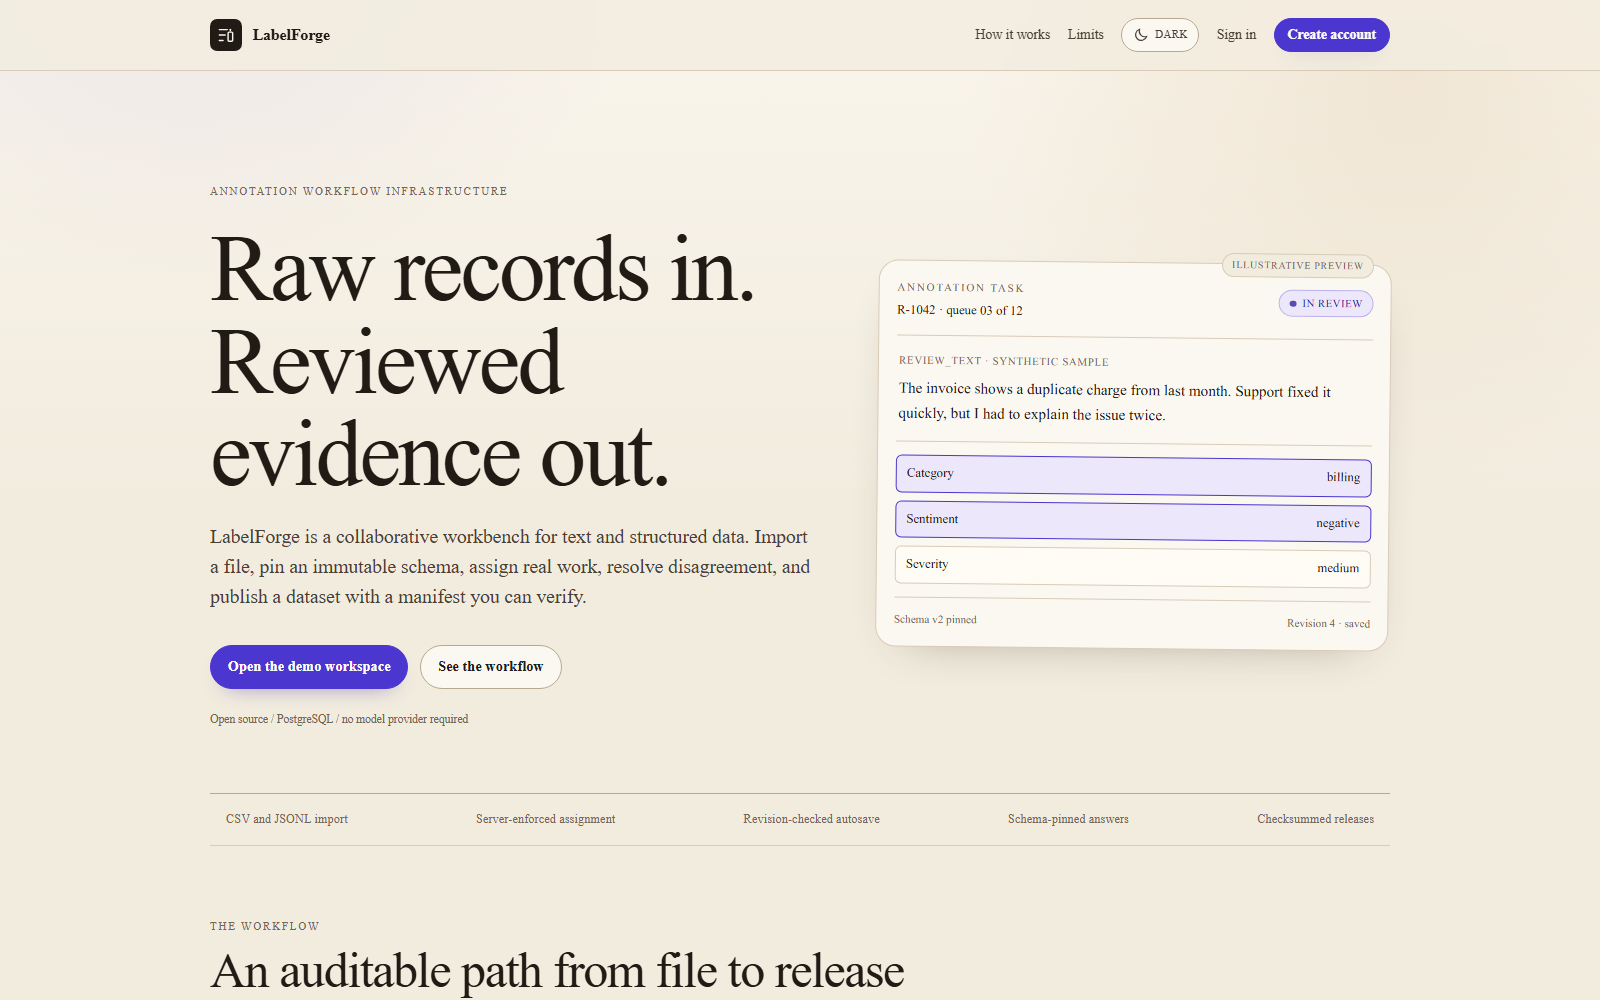
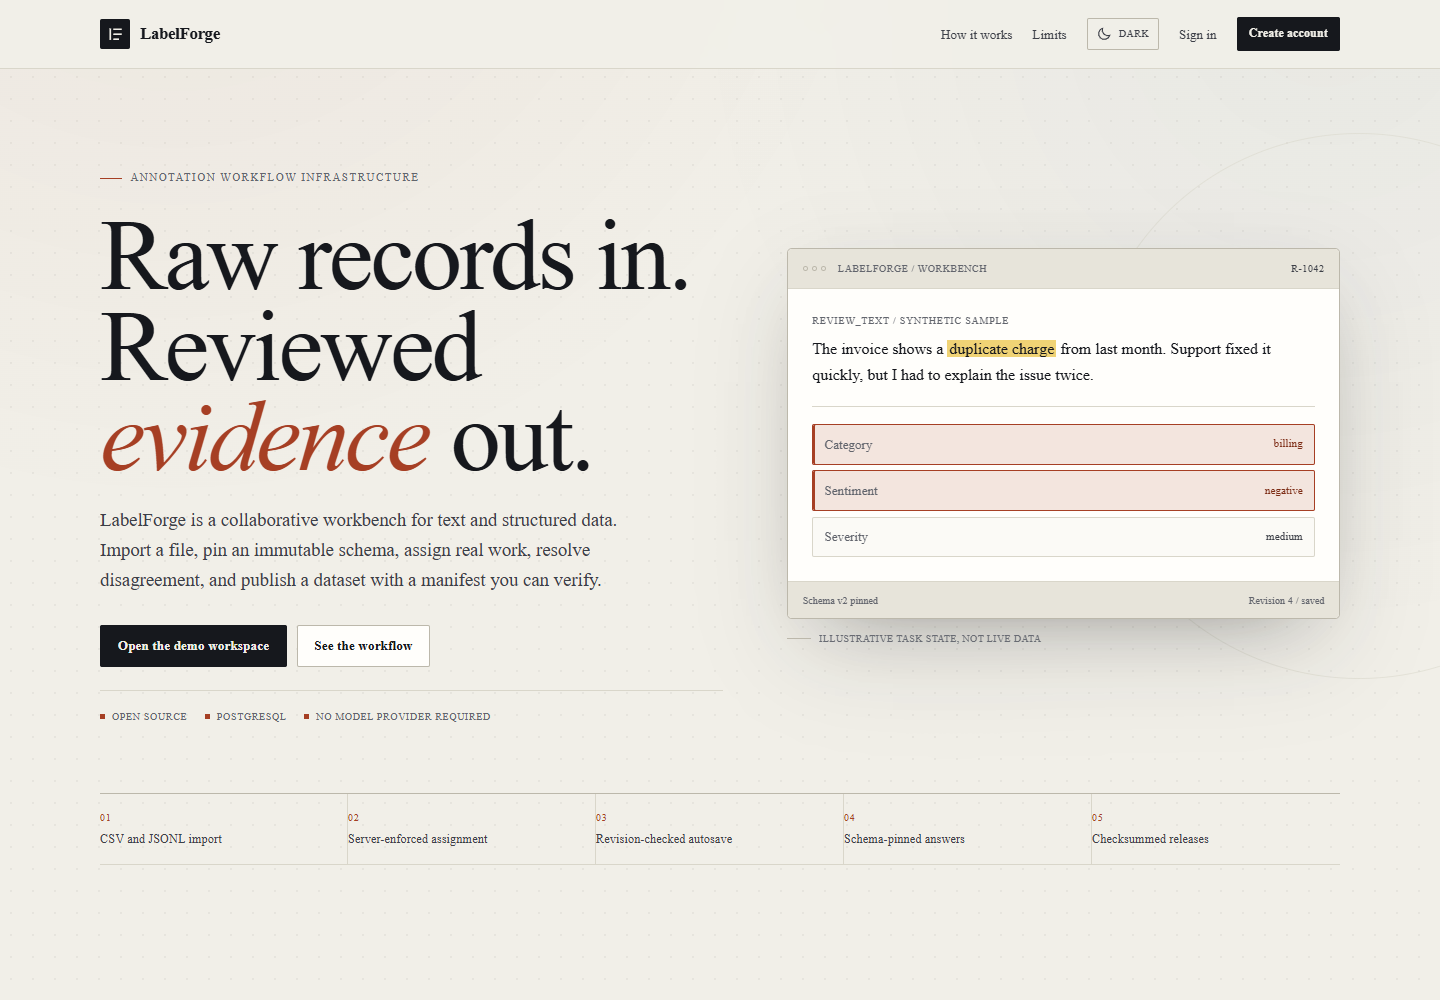
docs: refresh screenshots and the social card for the new interface

diff --git a/README.md b/README.md
@@ -2,7 +2,7 @@
 
 An auditable, collaborative workbench for turning CSV and JSONL records into reviewed, versioned datasets.
 
-[![Live Demo](https://img.shields.io/badge/Live_Demo-Vercel-7c3aed)](https://labelforge-app.vercel.app)
+[![Live Demo](https://img.shields.io/badge/Live_Demo-Vercel-a63f24)](https://labelforge-app.vercel.app)
 [![CI](https://github.com/devtechedge/labelforge/actions/workflows/ci.yml/badge.svg?branch=main)](https://github.com/devtechedge/labelforge/actions/workflows/ci.yml)
 [![Next.js](https://img.shields.io/badge/Next.js-16-black?logo=nextdotjs)](https://nextjs.org)
 [![TypeScript](https://img.shields.io/badge/TypeScript-strict-3178c6?logo=typescript&logoColor=white)](https://www.typescriptlang.org)
@@ -37,6 +37,10 @@ Demo sign-in buttons appear only when `DEMO_MODE=true`. Demo identities are fixe
 | Quality measures | Release history |
 | --- | --- |
 | ![Quality page](docs/screenshots/03-quality.png) | ![Release history](docs/screenshots/04-releases.png) |
+
+## Interface
+
+The interface is a field ledger: warm paper, ink, oxide, square geometry, editorial serif headings, and monospaced metadata. Light and dark themes share the same hierarchy. The workbench is a three-panel console with a scrollable queue, a readable source record, and a pinned annotation and action panel. Controls are built from native form elements, keyboard focus stays visible, and the layout is checked with axe at mobile and desktop widths.
 
 ## What it does
 
